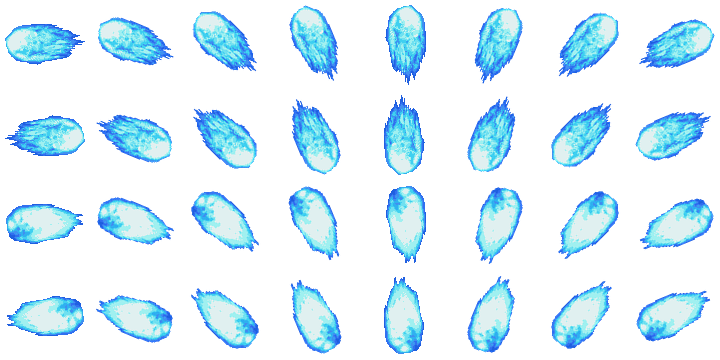
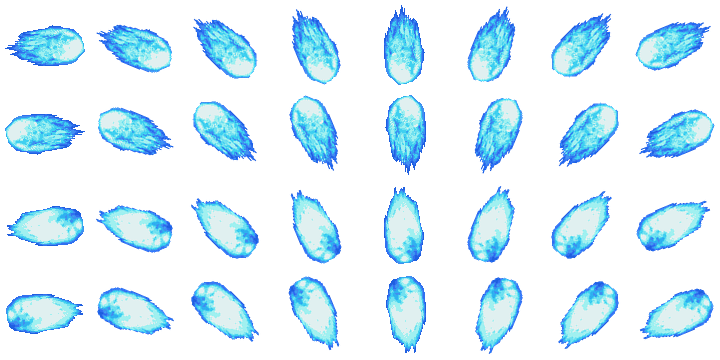
Face the dash barrier forward; animate the ion bolt
barrier.png natively faces 180 (dense shield bulb at the left of the cell,
crackle trail streaming right — the Phaser original says the same with
bulletAngleOffset = 180), but prep-assets pre-rotated it with base_angle 0,
so every direction frame came out tail-first.

ion was pre-rotated from frames=[3] only, leaving anim: 1 — dirAt() always
returned the same frame, so the default weapon looked frozen in flight. Now
all four source frames get direction sets (4 anim x 16 dirs of 64px cells =
512x512, inside the GS texture limit) and tuning plays them at the
original 20fps.

diff --git a/ps2/data/tuning.js b/ps2/data/tuning.js
@@ -16,7 +16,7 @@ export const PLAYER = {
 
 // cycled with R1 (barrier dash stays on L1, as in the original)
 export const WEAPONS = [
-  { id: 'ion', name: 'ION', rate: 0.3, speed: 350, dmg: 100, radius: 12, sheet: 'ion', impact: 'ion-impact', life: 2.5 },
+  { id: 'ion', name: 'ION', rate: 0.3, speed: 350, dmg: 100, radius: 12, sheet: 'ion', fps: 20, impact: 'ion-impact', life: 2.5 },
   { id: 'ciga', name: 'CIGA', rate: 0.3, speed: 350, dmg: 100, radius: 8, sheet: 'ciga', fps: 8, scale: 2.4, impact: 'smoke', life: 2.5 },
   { id: 'pacman', name: 'PAC', rate: 0.6, speed: 600, dmg: 50, radius: 14, sheet: 'pacman', fps: 12, impact: 'pac-ghost', pierce: true, life: 1.6 },
 ];

diff --git a/ps2/data/sheets.js b/ps2/data/sheets.js
@@ -114,9 +114,9 @@ export const SHEETS = {
     "fw": 9
   },
   "ion": {
-    "anim": 1,
+    "anim": 4,
     "cols": 8,
-    "count": 16,
+    "count": 64,
     "dirs": 16,
     "fh": 64,
     "file": "assets/ion.png",

diff --git a/scripts/prep-assets.py b/scripts/prep-assets.py
@@ -244,17 +244,21 @@ rotations("player.png", "player", 72, 0)
 # every projectile that reads as pointing somewhere needs direction frames, or
 # it flies sideways: the ion bolt's burst leads and its tail streams behind,
 # the cigarette leads with its sunglasses, pacman chomps forward. bullet.png is
-# a round glow — symmetric, so it stays a plain 2-frame strip. ion only
-# pre-rotates its longest streak: renderBullets() picks the frame by heading,
-# so the 4-frame charge-up was never played anyway. base angles are what
-# playtesting proved out — front leads, not trails.
-rotations("ion.png", "ion", 64, 180, fw=48, fh=30, frames=[3])
+# a round glow — symmetric, so it stays a plain 2-frame strip. base angles are
+# what playtesting proved out — front leads, not trails.
+# all four ion frames are pre-rotated so the bolt crackles in flight like the
+# original's 20fps loop; 4 anim x 16 dirs of 64px cells is a 512x512 grid,
+# still inside the GS texture limit
+rotations("ion.png", "ion", 64, 180, fw=48, fh=30)
 rotations("ciga-bullet.png", "ciga", 16, 90, fw=9, fh=12, cols=16)
 rotations("pacman-spritesheet.png", "pacman", 32, 0, fw=32, fh=32, cols=16)
-# the dash barrier swings to whatever direction the dash travels. Two of its
+# the dash barrier swings to whatever direction the dash travels. The arc's
+# dense shield face is at the LEFT of the source cell with the trail streaming
+# right, so it natively faces 180 (the Phaser original says the same with
+# bulletAngleOffset = 180) — with base_angle 0 it dashed tail-first. Two of its
 # eight shimmer frames keep the crackle; 90px cells fit the 80x41 arc's
 # rotation diagonal (hypot = 89.9)
-rotations("barrier.png", "barrier", 90, 0, fw=80, fh=41, frames=[0, 4])
+rotations("barrier.png", "barrier", 90, 180, fw=80, fh=41, frames=[0, 4])
 font_sheet()
 background()
 copies()
